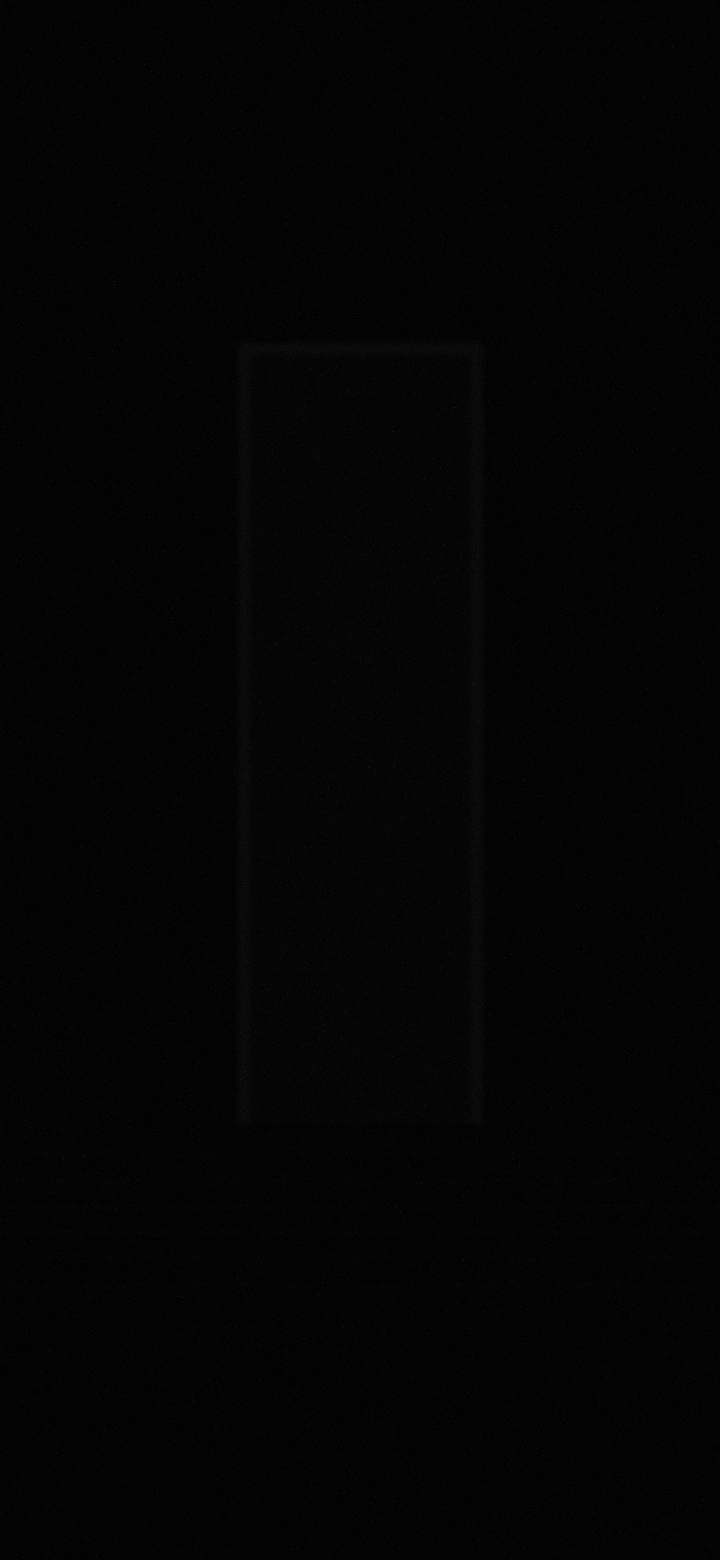
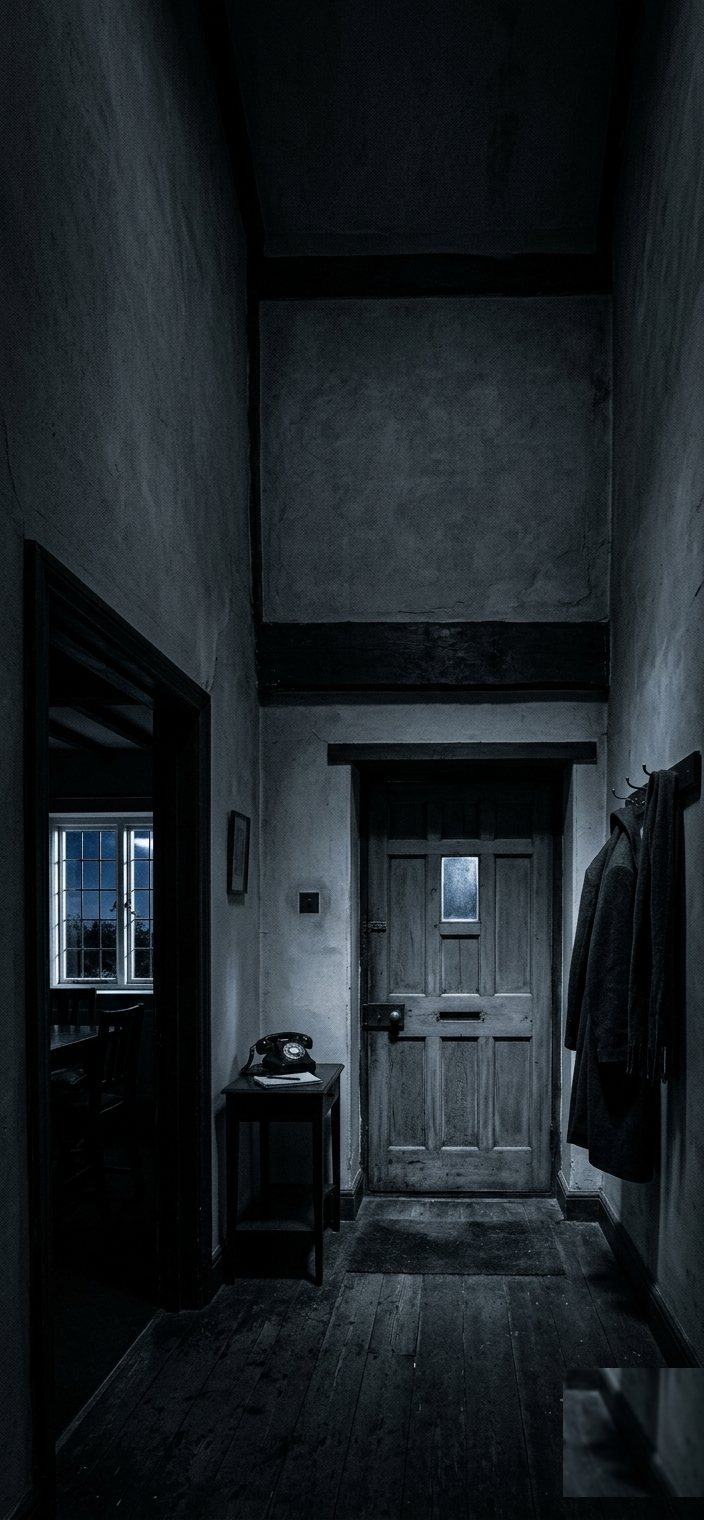
Real Hall + Study photography, full-bleed backdrops behind floating header
- Drop in Gemini-generated Hall + Study backdrops (watermark patched out via
  scripts scratch tool); registry filenames unchanged.
- SceneBackdrop tuned for real photography: opacity 0.72 (was crushing art at
  0.5) + a faux top-gradient band stack so first lines stay legible over
  lighter wall, no gradient lib needed.
- StoryScreen: ChapterView now fills the whole screen so the backdrop is
  full-bleed (device feedback: it stopped below the header); header floats
  over it (pointerEvents box-none), content top-padding clears it.

diff --git a/src/screens/StoryScreen.tsx b/src/screens/StoryScreen.tsx
@@ -32,7 +32,15 @@ export default function StoryScreen({ onBack }: { onBack: () => void }) {
 
   return (
     <View style={styles.root}>
-      <View style={styles.header}>
+      {/* ChapterView fills the whole screen so the room backdrop is full-bleed
+          behind everything; the header floats over it. */}
+      <ChapterView
+        chapter={chapter}
+        initialBlockIndex={initial}
+        onAdvance={advance}
+        onComplete={complete}
+      />
+      <View style={styles.header} pointerEvents="box-none">
         <Pressable onPress={onBack} hitSlop={12}>
           <Text style={styles.back} maxFontSizeMultiplier={1.3}>‹ the set</Text>
         </Pressable>
@@ -41,22 +49,21 @@ export default function StoryScreen({ onBack }: { onBack: () => void }) {
         </Text>
         <View style={styles.spacer} />
       </View>
-      <ChapterView
-        chapter={chapter}
-        initialBlockIndex={initial}
-        onAdvance={advance}
-        onComplete={complete}
-      />
     </View>
   );
 }
 
 const styles = StyleSheet.create({
-  root: { flex: 1, backgroundColor: colors.bg, paddingTop: 62 },
+  root: { flex: 1, backgroundColor: colors.bg },
   header: {
+    position: 'absolute',
+    top: 0,
+    left: 0,
+    right: 0,
     flexDirection: 'row',
     alignItems: 'center',
     paddingHorizontal: 26,
+    paddingTop: 62,
     paddingBottom: 14,
   },
   back: { fontFamily: fonts.mono, fontSize: 12, color: colors.muted },

diff --git a/src/engine/SceneBackdrop.tsx b/src/engine/SceneBackdrop.tsx
@@ -11,7 +11,10 @@ import type { SceneId } from '../models';
 import { SCENES } from './scenes';
 import { colors } from '../theme';
 
-const BASE_OPACITY = 0.5;
+// Real photography is delivered properly exposed (and already dark/moody), so
+// it shows at high opacity; a top scrim band protects the reading zone where
+// the first lines of each room sit over lighter wall.
+const BASE_OPACITY = 0.72;
 
 export function SceneBackdrop({ sceneId }: { sceneId: SceneId | null }) {
   const [shown, setShown] = useState<SceneId | null>(sceneId);
@@ -46,6 +49,11 @@ export function SceneBackdrop({ sceneId }: { sceneId: SceneId | null }) {
         />
       )}
       <View style={styles.scrim} />
+      {/* Faux top gradient (stacked bands, no gradient lib): darkens the upper
+          reading zone so first lines stay crisp over lighter wall. */}
+      <View style={[styles.band, styles.band1]} />
+      <View style={[styles.band, styles.band2]} />
+      <View style={[styles.band, styles.band3]} />
     </View>
   );
 }
@@ -58,6 +66,10 @@ const styles = StyleSheet.create({
     right: 0,
     bottom: 0,
     backgroundColor: colors.bg,
-    opacity: 0.22,
+    opacity: 0.14,
   },
+  band: { position: 'absolute', top: 0, left: 0, right: 0, backgroundColor: colors.bg },
+  band1: { height: '22%', opacity: 0.5 },
+  band2: { height: '34%', opacity: 0.3 },
+  band3: { height: '48%', opacity: 0.18 },
 });

diff --git a/src/engine/ChapterView.tsx b/src/engine/ChapterView.tsx
@@ -311,5 +311,5 @@ function renderGate(
 const styles = StyleSheet.create({
   root: { flex: 1 },
   scroll: { flex: 1, backgroundColor: 'transparent' },
-  content: { paddingHorizontal: 26, paddingTop: 30, paddingBottom: 120 },
+  content: { paddingHorizontal: 26, paddingTop: 104, paddingBottom: 120 },
 });
